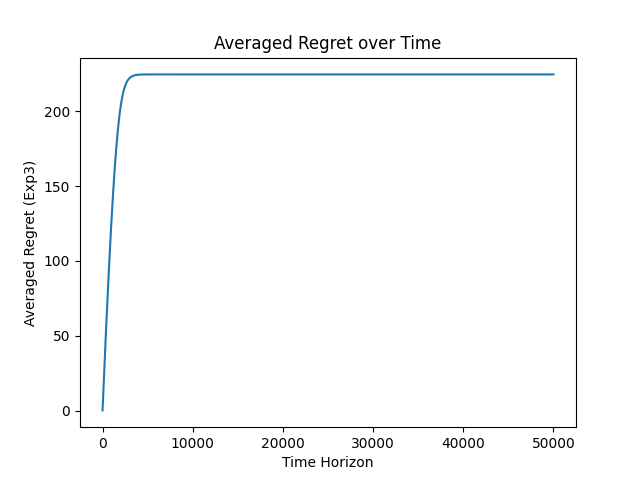
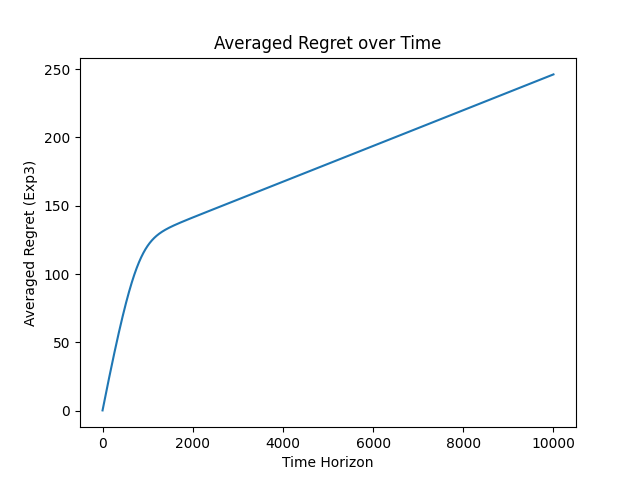
Guassain E2D learns something

diff --git a/src/e2d/mc_estimator.py b/src/e2d/mc_estimator.py
@@ -27,18 +27,18 @@ class MC_Estimator():
 
     def get_f_m_hat(self):
         f_m_hat = np.average(self.samples_drawn, axis=2)
-        print("Mean Estimates {} with sample size {}".format(f_m_hat, self.m))
+        #print("Mean Estimates {} with sample size {}".format(f_m_hat, self.m))
         return f_m_hat
 
     def print_true_squared_hellinger_distance(self):
         true_sq_hellinger_divergence = np.zeros(shape = (len(self.combs), self.finite_model_class.K))
       
-        print("True Hellinger Divergence: ")
+        #print("True Hellinger Divergence: ")
         for s in range(len(self.combs)):
             model_i_index = self.combs[s][0]
             model_j_index = self.combs[s][1]
             true_sq_hellinger_divergence[s, :] = self.finite_model_class.compute_true_sq_hellinger_divergence(model_i_index, model_j_index)
-            print("Model {0} Model {1} {2}".format(model_i_index, model_j_index, np.array2string(true_sq_hellinger_divergence[s, :])))
+            #print("Model {0} Model {1} {2}".format(model_i_index, model_j_index, np.array2string(true_sq_hellinger_divergence[s, :])))
 
     def estimate_sq_hellinger_divergence(self, s):
         model_index_i = self.combs[s][0]
@@ -83,8 +83,8 @@ class MC_Estimator():
         for s in range(len(self.combs)):
             self.sq_hellinger_divergence_hat[s, :] = self.estimate_sq_hellinger_divergence(s)
 
-        print("Estimated Hellinger Divergence: ")
+        #print("Estimated Hellinger Divergence: ")
         for s in range(len(self.combs)):
             model_i_index = self.combs[s][0]
             model_j_index = self.combs[s][1]
-            print("Model {0} Model {1} {2}".format(model_i_index, model_j_index, np.array2string(self.sq_hellinger_divergence_hat[s, :])))
+            #print("Model {0} Model {1} {2}".format(model_i_index, model_j_index, np.array2string(self.sq_hellinger_divergence_hat[s, :])))

diff --git a/src/e2d/gaussian_model_collection.py b/src/e2d/gaussian_model_collection.py
@@ -14,6 +14,7 @@ class Gaussian_Model_Collection(Finite_Model_Collection):
             self.models.append(Gaussian_Model_Class(self.K))
         self.M_star = np.random.randint(self.M)
         self.pi_star = self.models[self.M_star].get_optimal_arm_index()
+        self.t = 0
     
     def get_model_class_length(self):
         return self.M
@@ -26,6 +27,7 @@ class Gaussian_Model_Collection(Finite_Model_Collection):
     
     def compute_instantaneous_regret(self, p_t):
         instant_regret = (self.models[self.M_star].arm_means[self.pi_star] - np.sum(np.multiply(p_t, self.models[self.M_star].arm_means)))
+        self.t += 1
         return instant_regret
     
     # draws a [K x m] Monte-Carlo sample 

diff --git a/scripts/e2d/gaussian_e2d.py b/scripts/e2d/gaussian_e2d.py
@@ -10,10 +10,10 @@ from e2d.exp_weights_oracle import Exp_Weights_Oracle
 from e2d.meta_algo import Meta_Algo
 
 np.random.seed(900)
-T = 50000 # Time Horizon
+T = 10000 # Time Horizon
 K = 3 # Number of Arms
-M = 10 # Number of Models
-NUM_RUNS = 200
+M = 25 # Number of Models
+NUM_RUNS = 2000
 m = 1000 # Monte-Carlo Sample Size
 
 model_class = Gaussian_Model_Collection(K = K, M = M)
